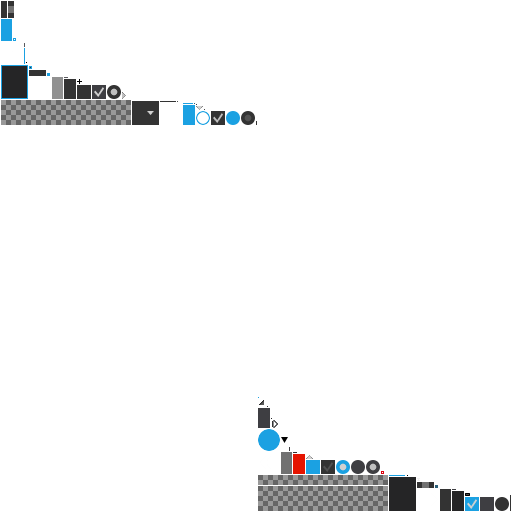
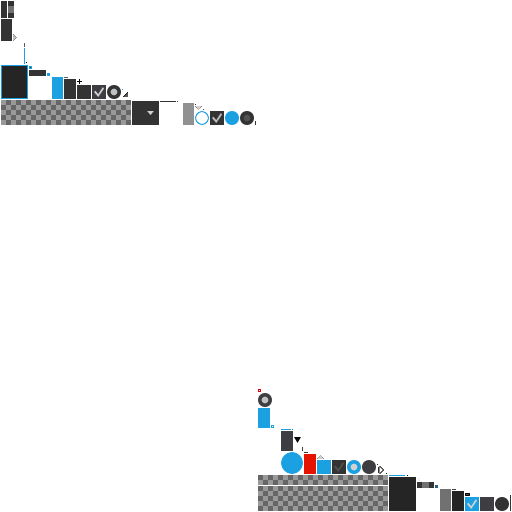
Added 'navigate to parent directory' button in FileChooser

diff --git a/UI/src/com/kotcrab/vis/ui/widget/file/FileChooser.java b/UI/src/com/kotcrab/vis/ui/widget/file/FileChooser.java
@@ -207,9 +207,24 @@ public class FileChooser extends VisWindow {
 			}
 		});
 
+		VisImageButton folderParentButton = new VisImageButton(style.iconFolderParent);
+		folderParentButton.addListener(new ChangeListener() {
+			@Override
+			public void changed (ChangeEvent event, Actor actor) {
+				FileHandle parent = currentDirectory.parent();
+
+				//if current directory is drive root (eg. "C:/") navigating to parent
+				//would navigate to "/" which would work but it is bad for UX
+				if (FileUtils.isWindows() && currentDirectory.path().endsWith(":/")) return;
+
+				setDirectory(parent);
+			}
+		});
+
 		toolbarTable.add(backButton);
 		toolbarTable.add(forwardButton);
 		toolbarTable.add(currentPath).expand().fill();
+		toolbarTable.add(folderParentButton);
 
 		backButton.addListener(new ChangeListener() {
 			@Override
@@ -322,14 +337,14 @@ public class FileChooser extends VisWindow {
 
 		if (selectedItems.size > 0 || mode == Mode.SAVE) {
 			Array<FileHandle> files = getFileListFromSelected();
-			notifyListnerAndCloseDialog(files);
+			notifyListenerAndCloseDialog(files);
 		} else {
 			if (selectionMode == SelectionMode.FILES)
 				showDialog(getText(POPUP_CHOOSE_FILE));
 			else {
 				Array<FileHandle> files = new Array<FileHandle>();
 				files.add(currentDirectory);
-				notifyListnerAndCloseDialog(files);
+				notifyListenerAndCloseDialog(files);
 			}
 		}
 	}
@@ -340,7 +355,7 @@ public class FileChooser extends VisWindow {
 		super.close();
 	}
 
-	private void notifyListnerAndCloseDialog (Array<FileHandle> files) {
+	private void notifyListenerAndCloseDialog (Array<FileHandle> files) {
 		if (files == null) return;
 
 		listener.selected(files);
@@ -407,7 +422,7 @@ public class FileChooser extends VisWindow {
 			@Override
 			@SuppressWarnings("unchecked")
 			protected void result (Object object) {
-				notifyListnerAndCloseDialog((Array<FileHandle>) object);
+				notifyListenerAndCloseDialog((Array<FileHandle>) object);
 			}
 		};
 		dialog.text(filesList.size == 1 ? getText(POPUP_FILE_EXIST_OVERWRITE) : getText(POPUP_MULTIPLE_FILE_EXIST_OVERWRITE));
@@ -745,12 +760,14 @@ public class FileChooser extends VisWindow {
 		public Drawable iconArrowLeft;
 		public Drawable iconArrowRight;
 		public Drawable iconFolder;
+		public Drawable iconFolderParent;
 		public Drawable iconDrive;
 
 		public FileChooserStyle () {
 			iconArrowLeft = VisUI.getSkin().getDrawable("icon-arrow-left");
 			iconArrowRight = VisUI.getSkin().getDrawable("icon-arrow-right");
 			iconFolder = VisUI.getSkin().getDrawable("icon-folder");
+			iconFolderParent = VisUI.getSkin().getDrawable("icon-folder-parent");
 			iconDrive = VisUI.getSkin().getDrawable("icon-drive");
 		}
 	}
